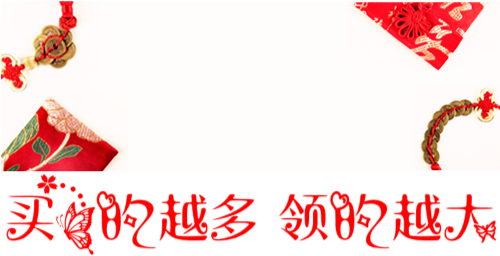
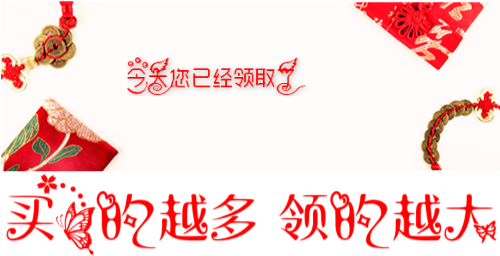
update

Changed region(s): [[0.24, 0.2188, 0.63, 0.375]]

diff --git a/module/packet.html b/module/packet.html
@@ -16,14 +16,18 @@
 		<div id="packet">
 			<div class="red-box">
 				<div v-if="!red_packet_info.is_get" class = "red-click">	
-					<img  id="red-click-img" src="../common/image/red_click.png" style="width: 100%;">
+					<img id="red-click-img" src="../common/image/red_click.png" style="width: 100%;">
 				</div>
 				<div v-else class = "red-open">
 					<div class="red-open-text">
-						<div class="red-open-value" style="margin-bottom: 7rem;">
-							<span>今天您已经领取了{{red_packet_info.value/100}}元</span>
+						<div class="red-open-value">
+							{{red_packet_info.value/100}}元
 						</div>
-						<span>可在公众号"券开心"提现</span>
+						<div class="red-open-get">
+							您有未提现的金额{{red_packet_info.total/100}}元
+							<br>
+							满{{red_packet_info.max_value/100}}元即可在{{red_packet_info.wx_name}}提现
+						</div>	
 					</div>
 					<img  id="red-open-img" src="../common/image/red_open.png" style="width:100%;">
 				</div>

diff --git a/common/css/packet.css b/common/css/packet.css
@@ -2,35 +2,28 @@
 	position:relative;
 	background-color: #FFFFFF;
 }
-.red-click-text {
-	position: absolute;
-	height: 30% ;
-	width: 100%;
-	text-align: center;
-	padding-top: 4.0rem;
-}
-
-.red-click-text span {
-	font-size: 3.2rem;
-	font-family:cursive;
-	color: red;
-}
 
 .red-open-text {
 	position: absolute;
-	height: 100% ;
-	width: 100%;
+	height: 50% ;
+	width: 60%;
+	margin-left: 20%;
+	margin-top: 13%;
+	/*border: 2px solid red;*/
+}
+
+.red-open-value {
+	text-align: right;
+	color: red;
+  	font-size:2.4rem;
+  	font-family:cursive;
+}
+
+.red-open-get {
+	margin-top: 1.5rem;
 	text-align: center;
-	padding-top: 2.0rem;
-}
-
-.red-open-text span {
-	font-size: 2rem;
-	font-family:cursive;
-	color: blue;
-}
-
-.red-open-text img {
-	width: 40%;
-	margin-top: 3.0rem;
+	overflow: hidden;
+    color: #333;
+    font-size: 1.4rem;
+	/*border: 2px solid blue;*/
 }
